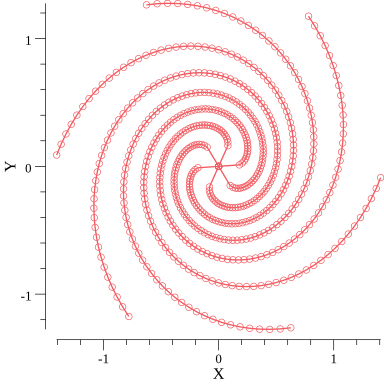
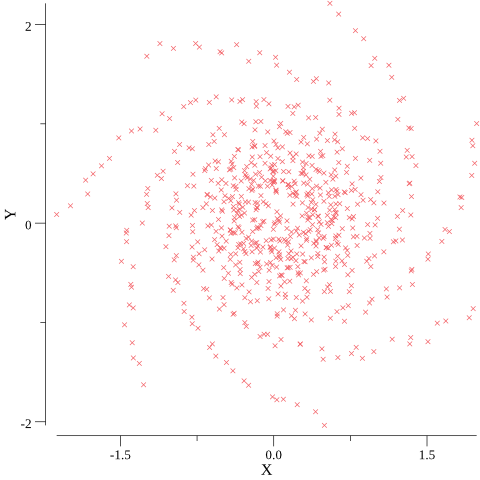
randomised

diff --git a/spiral.go b/spiral.go
@@ -2,23 +2,47 @@ package spiral
 
 import (
 	"math"
+	"math/rand"
 )
 
-var epsilon = math.Nextafter(1, 2) - 1
+const twoPi = 2 * math.Pi
 
 // https://arxiv.org/ftp/arxiv/papers/0908/0908.0892.pdf
 func galaxy(phi, scale, b, n float64) float64 {
 	return scale / (math.Log(b * math.Tan(phi/(2*n))))
 }
 
-func gudermannian(x float64) float64 {
-	return 2 * math.Pow(math.Tan(math.Pow(math.E, x)), -1)
+type Galaxy struct {
 }
 
-func lobachevsky(x float64) float64 {
-	return 2 * math.Pow(math.Tan(math.Pow(math.E, -x)), -1)
+func (g Galaxy) Generate(random *rand.Rand) {
+
 }
 
-func logspiral(r, k, phi float64) float64 {
-	return r * math.Pow(math.E, k*phi)
+// Arm represents a single arm for the spiral galaxy
+type Arm struct {
+	Bulge float64 // Greater buldge (B) results in greater arm sweep and smaller bar/bulge
+	Tight float64 // Tight controls the tightness (N)
+	Pitch float64 // Pitch of the arm
+	Noise float64 // Noise controls the randomness factor applied
+}
+
+// Generate generates a single spiral galaxy arm. This uses the function described in
+// the paper https://arxiv.org/ftp/arxiv/papers/0908/0908.0892.pdf for realism.
+func (a Arm) Generate(random *rand.Rand, count int) (stars []Star) {
+	for phi := .0; phi < twoPi; phi += twoPi / float64(count) {
+		r := 1 / (math.Log(a.Bulge * math.Tan(phi/(2*a.Tight))))
+		rx := random.Float64() * a.Noise
+		ry := random.Float64() * a.Noise
+		stars = append(stars, Star{
+			X: r*math.Cos(phi+a.Pitch) + rx,
+			Y: r*math.Sin(phi+a.Pitch) + ry,
+		})
+	}
+	return
+}
+
+// Star represents a single star
+type Star struct {
+	X, Y float64
 }

diff --git a/spiral_test.go b/spiral_test.go
@@ -3,53 +3,48 @@ package spiral
 import (
 	"math"
 	"fmt"
+	"math/rand"
 	"testing"
 
 	"gonum.org/v1/plot"
 	"gonum.org/v1/plot/plotter"
 	"gonum.org/v1/plot/plotutil"
 	"gonum.org/v1/plot/vg"
+	"gonum.org/v1/plot/vg/draw"
 	"github.com/stretchr/testify/assert"
 )
 
+var random = rand.New(rand.NewSource(42))
+
+
 func TestBuilder(t *testing.T) {
 	series := []plotter.XYs{}
-	const arms = 6.0
+	const arms = 7.0
 	for i := .0; i < arms; i++{
 		t := i / arms * 2*math.Pi
-		println(t)
 		series = append(series, drawImage(t))
 	}
-	assert.Fail(t, "")
 	
 	fmt.Println("saving image")
 	saveImage(t, "output", series...)
 }
 
 func drawImage(t float64) (points plotter.XYs){
-	const r1, a1 = 0.05, 0
-	const r2, a2 = 0.85, 2*math.Pi
-	const N = 100.0
-	
-	for i := .0; i < N; i++ {
-		phi := i * ((a2 - a1) / N)
-		r := galaxy(phi, 1, .5, 4)
-		phi += t
-
-		x := r * math.Cos(phi)
-		y := r * math.Sin(phi)
-		points = append(points, plotter.XY{ X: x, Y: y})
+	arm := Arm{ Bulge: 0.55, Tight: 3.7, Pitch: t, Noise: .15}
+	for _, v := range arm.Generate(random, 100){
+		points = append(points, plotter.XY{ X: v.X, Y: v.Y})
 	}
 	return
 }
 
 func saveImage(t *testing.T, name string, series ...plotter.XYs){
+	plotutil.DefaultGlyphShapes = []draw.GlyphDrawer{ draw.CrossGlyph{}	}
 	p, _ := plot.New()
 	p.X.Label.Text = "X"
 	p.Y.Label.Text = "Y"
 	for _, s := range series{
-		plotutil.AddLinePoints(p, "", s)
+		plotutil.AddScatters(p, s)
 	}
-	err := p.Save(4*vg.Inch, 4*vg.Inch, name +".png"); 
+	err := p.Save(5*vg.Inch, 5*vg.Inch, name +".png"); 
 	assert.NoError(t, err)
 }
